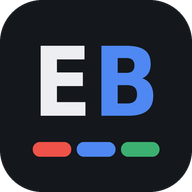
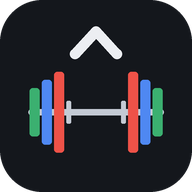
Přejmenování na Overload a nová ikona
- název aplikace, záhlaví a název pod ikonou na ploše: Overload
- nová ikona: osa s barevnými kotouči a šipkou nahoru
- nová verze offline mezipaměti, aby se načetly nové ikony

Claude-Session: https://claude.ai/code/session_01VNh5BSNBqyMuMG7XfRTJ9s

Changed region(s): [[0.125, 0.125, 0.875, 0.8438]]

diff --git a/index.html b/index.html
@@ -3,7 +3,7 @@
 <head>
 <meta charset="utf-8">
 <meta name="viewport" content="width=device-width,initial-scale=1,viewport-fit=cover">
-<title>Eva the Beast</title>
+<title>Overload</title>
 <meta name="description" content="Skládej tréninky podle partií, zapisuj váhy a sleduj svůj pokrok.">
 <meta name="theme-color" content="#EDEFF2" media="(prefers-color-scheme: light)">
 <meta name="theme-color" content="#101216" media="(prefers-color-scheme: dark)">
@@ -12,7 +12,7 @@
 <link rel="apple-touch-icon" href="icons/apple-touch-icon.png">
 <meta name="apple-mobile-web-app-capable" content="yes">
 <meta name="mobile-web-app-capable" content="yes">
-<meta name="apple-mobile-web-app-title" content="Eva the Beast">
+<meta name="apple-mobile-web-app-title" content="Overload">
 <meta name="apple-mobile-web-app-status-bar-style" content="black">
 <style>
 :root{color-scheme:light}
@@ -394,7 +394,7 @@ window.addEventListener('unhandledrejection',function(e){show('Promise: '+(e.rea
 </script>
 <div class="app">
   <header>
-    <div class="brand"><h1><button class="logo" id="logo" title="Hlavní nabídka">Eva <span>the Beast</span></button></h1><small id="hdrInfo">Tvůj trénink</small></div>
+    <div class="brand"><h1><button class="logo" id="logo" title="Hlavní nabídka">Over<span>load</span></button></h1><small id="hdrInfo">Tvůj trénink</small></div>
     <div class="goals" role="radiogroup" aria-label="Cíl tréninku" id="goals"></div>
   </header>
   <main id="main"><p class="boot">Načítám aplikaci…</p></main>

diff --git a/sw.js b/sw.js
@@ -1,6 +1,6 @@
-// Eva the Beast – offline provoz
+// Overload – offline provoz
 // Aplikace se spouští okamžitě z telefonu, aktualizace se stahují na pozadí.
-const VERSION='etb-v2';
+const VERSION='ovl-v3';
 const FONTS='etb-fonts';
 const CORE=['./','./index.html','./manifest.webmanifest','./icons/icon-192.png','./icons/icon-512.png','./icons/maskable-512.png','./icons/apple-touch-icon.png','./icons/favicon-32.png'];
 const timeout=(p,ms)=>Promise.race([p,new Promise((_,rej)=>setTimeout(()=>rej(new Error('timeout')),ms))]);
